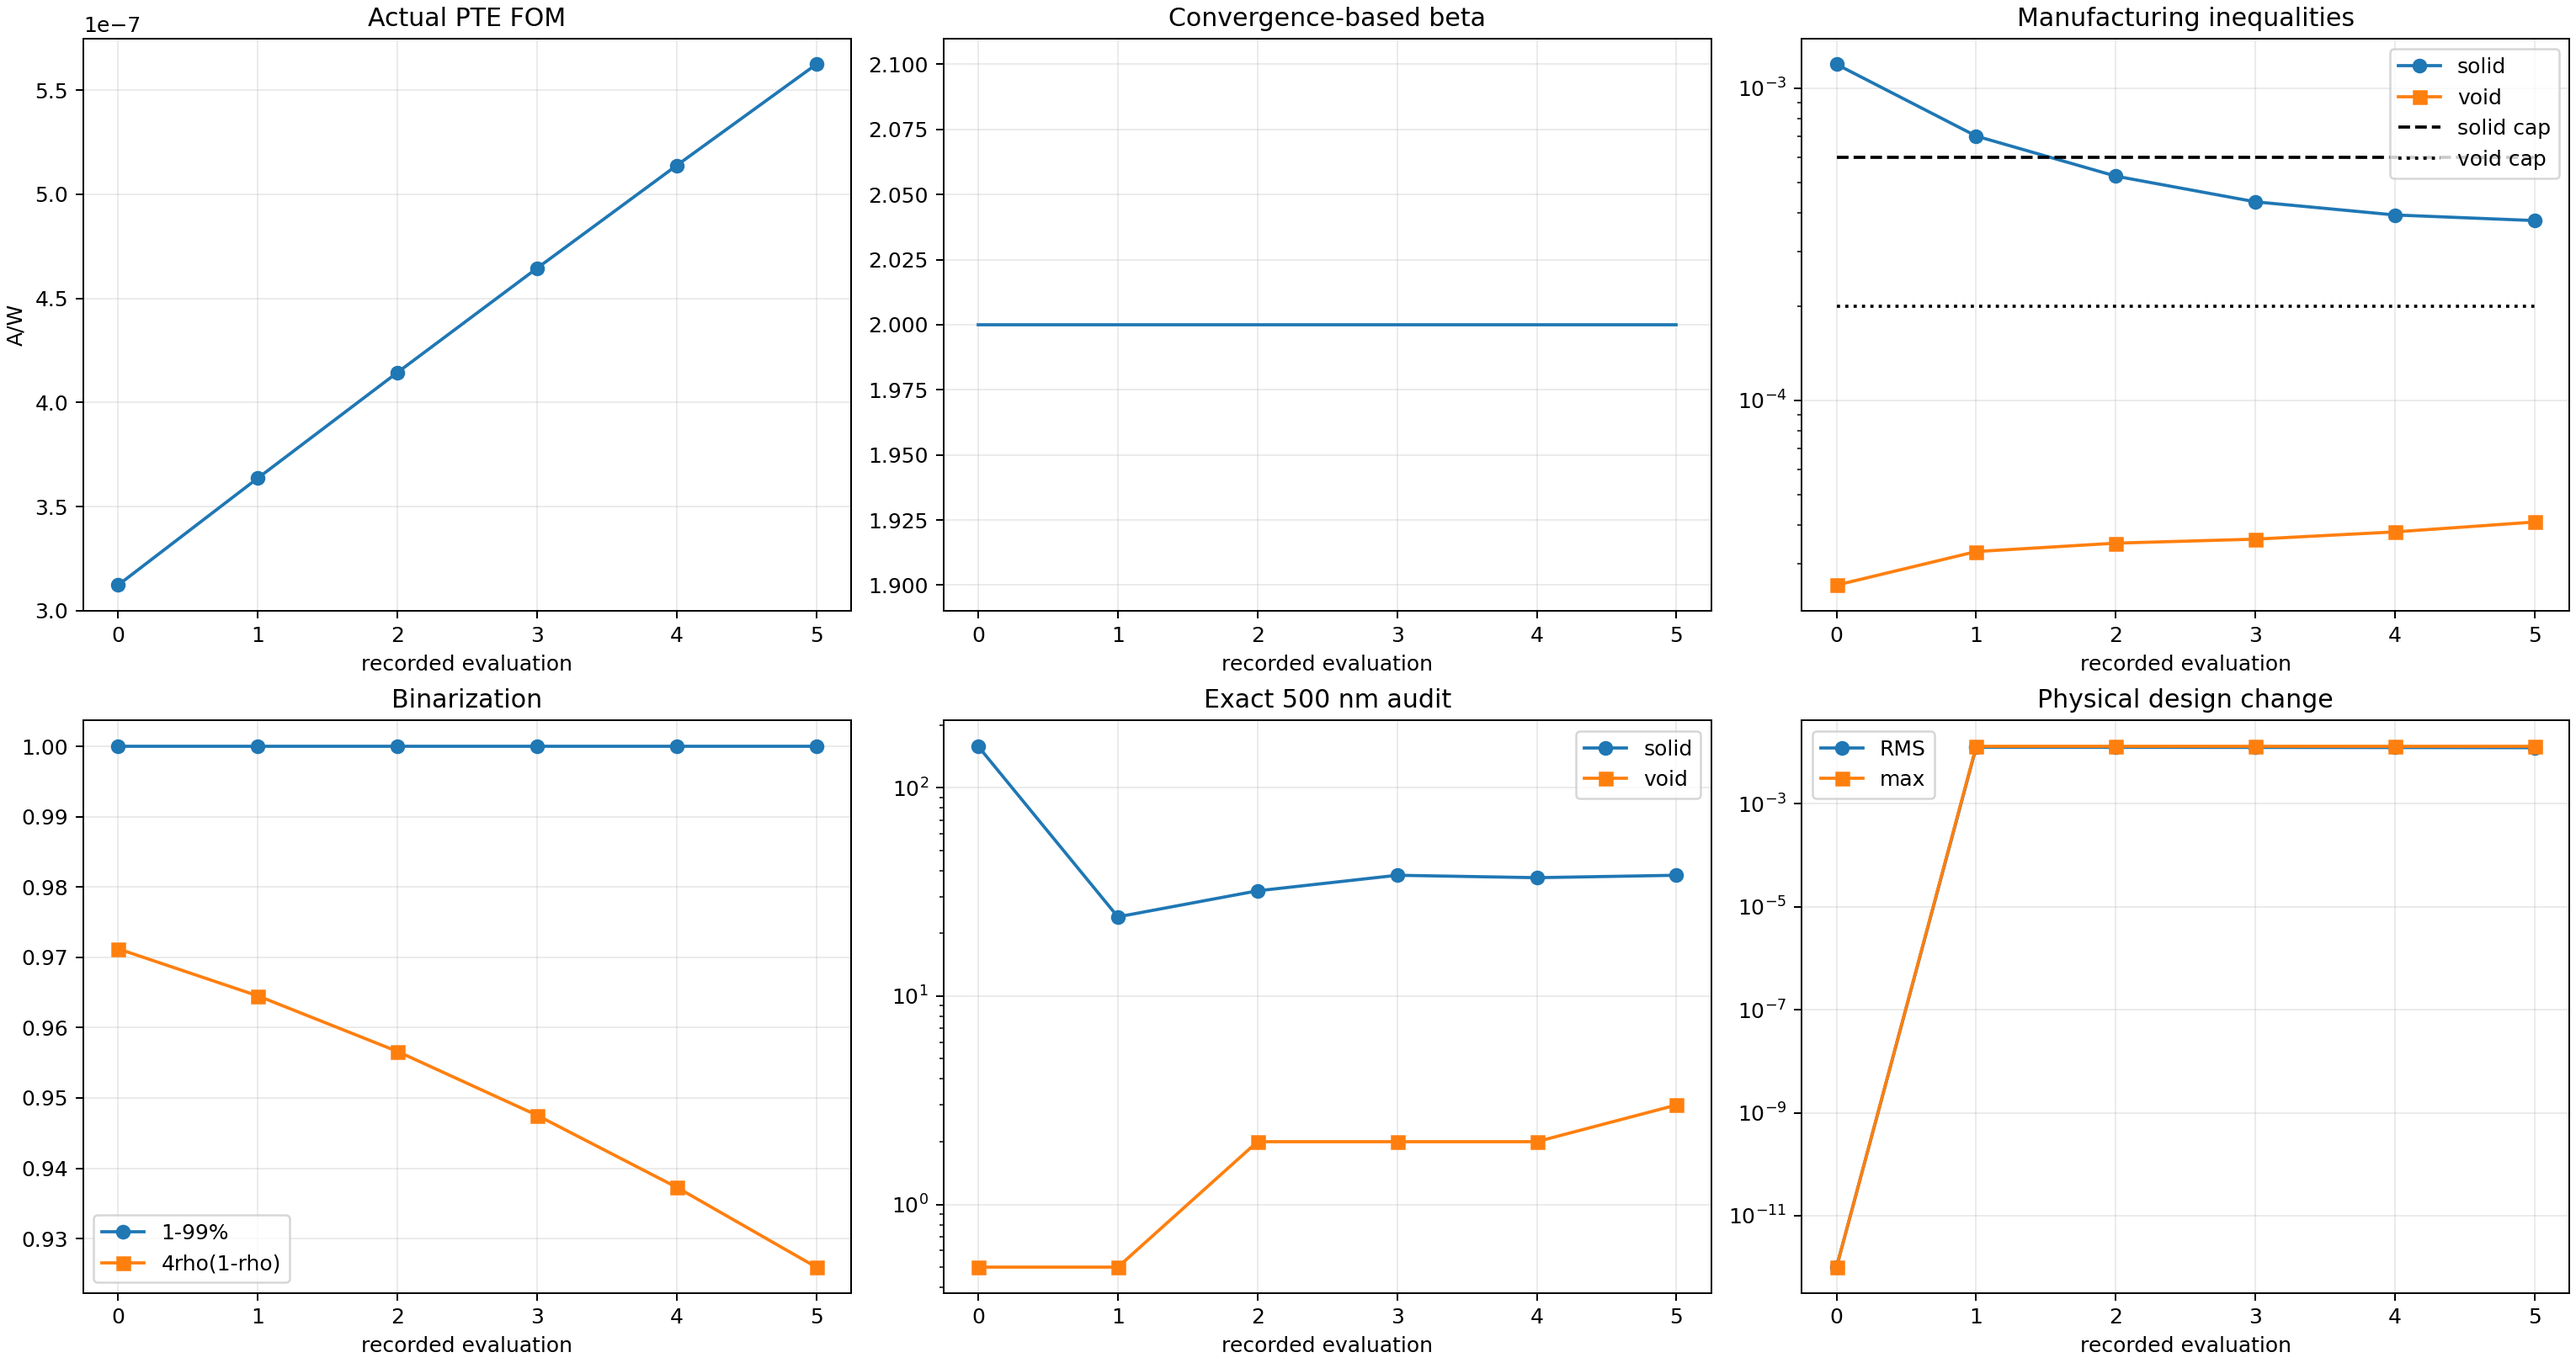
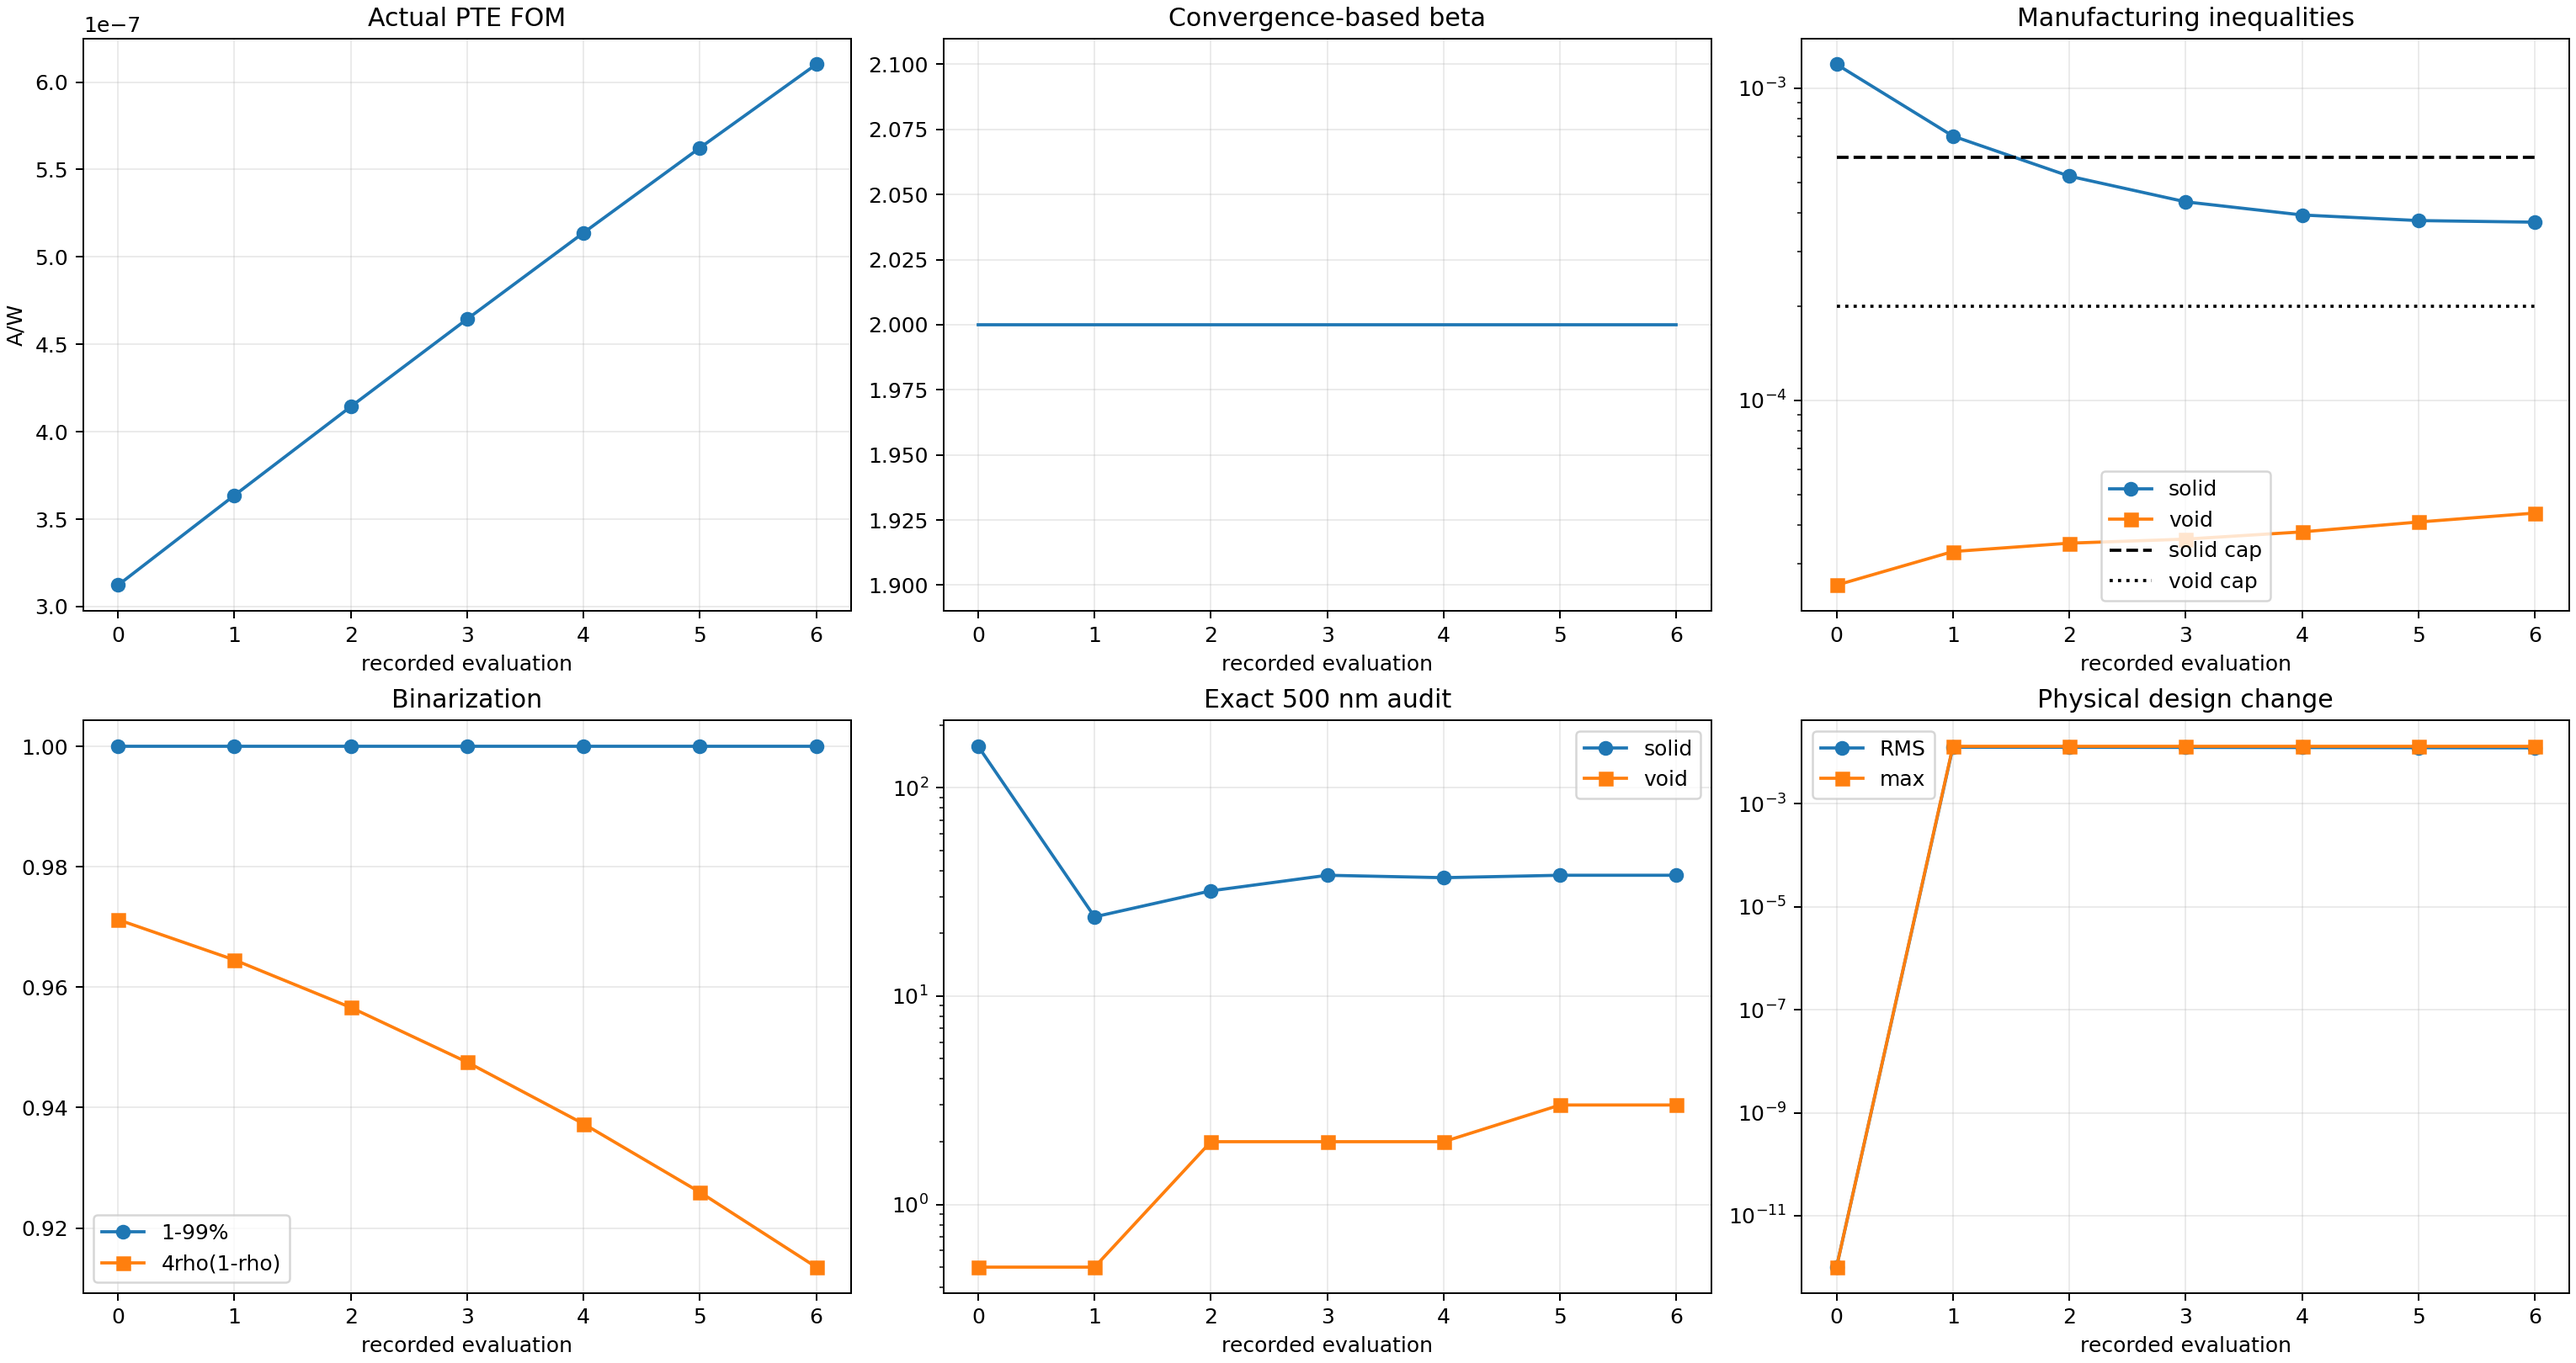
Record Run 005 run006_Ea_b002_s006_g006_accepted_mma

diff --git a/photothermal_pte/optimization_runs/run_006_corrected_Ea_pte_magnitude_max/results/OPTIMIZATION_REPORT.md b/photothermal_pte/optimization_runs/run_006_corrected_Ea_pte_magnitude_max/results/OPTIMIZATION_REPORT.md
@@ -2,11 +2,11 @@
 
 Status: `RUNNING_CORRECTED_EA_PTE_MAGNITUDE_OPTIMIZATION`
 
-Current stage: beta=2, accepted stage iteration=5, global iteration=5.
+Current stage: beta=2, accepted stage iteration=6, global iteration=6.
 
 Constraint contract: `soft_disk_opening_500nm_from_iteration_zero_v5`.
 
-Actual FOM: `5.623816143971e-07 A/W`. Fixed-cap solid/void constraints: `3.767603e-04` / `4.081792e-05` with caps `6.000000e-04` / `2.000000e-04`.
+Actual FOM: `6.101401170127e-07 A/W`. Fixed-cap solid/void constraints: `3.723312e-04` / `4.360152e-05` with caps `6.000000e-04` / `2.000000e-04`.
 
 Exact 500 nm bad cells: solid `38`, void `3`. Stage convergence: `False` (need at least 8 accepted updates).
 
